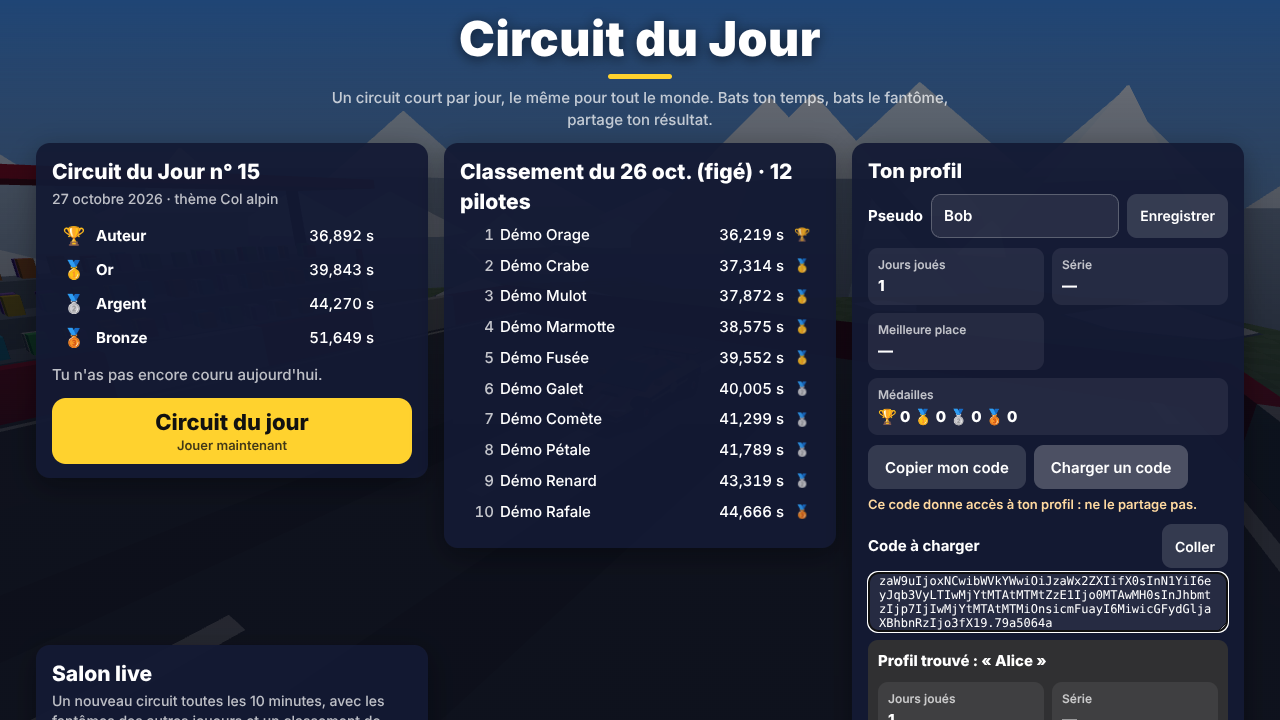
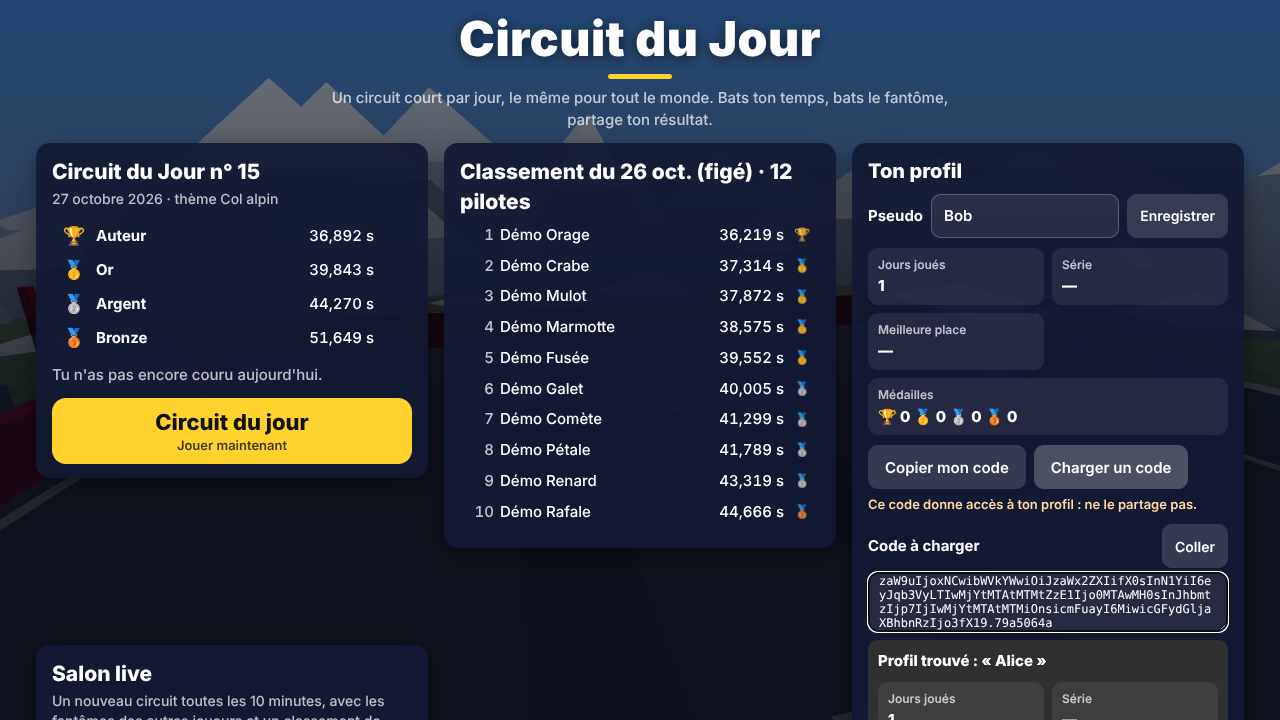
Lot 29 : scène de l'accueil plafonnée en qualité, captures, mesure, pièges et README
Claude-Session: https://claude.ai/code/session_014jqx9riDwsr6qTro3z7kgB

diff --git a/apps/web/src/main.ts b/apps/web/src/main.ts
@@ -451,7 +451,7 @@ function applySettings(patch: Partial<GameSettings> = {}) {
   governor.locked = plan.fixed;
   if (plan.fixed || wasQuality !== settings.quality) governor.level = plan.level; // retour à l'automatique : on repart de haut, la fluidité redescendra si besoin
   effects.quality = governor.level;
-  view.setQuality(governor.level, settings.shadows);
+  syncSceneQuality();
   effects.particlesOn = settings.particles;
   effects.skidMarksOn = settings.skids;
   shakeScale = params.get("shake") === "0" || !settings.shake ? 0 : 1;
@@ -460,6 +460,12 @@ function applySettings(patch: Partial<GameSettings> = {}) {
   syncBoardFold();
   if ("ghost" in patch) applyGhostSetting();
   settingsPanel?.sync();
+}
+
+/** Qualité de la scène : celle du jeu, sauf derrière l'accueil, où elle ne dépasse pas « moyenne » (« basse » sur appareil tactile : la batterie d'abord). */
+function syncSceneQuality() {
+  const level = (homeOpen ? Math.min(governor.level, touchMode ? 0 : 1) : governor.level) as Quality;
+  view.setQuality(level, settings.shadows);
 }
 
 function setCameraByName(name: string) {
@@ -535,12 +541,14 @@ function leaveToHome() {
   showPauseConfirm(false);
   startAttempt(); // la voiture revient au départ, le décompte attendra le bouton « Circuit du jour »
   homeOpen = true;
+  syncSceneQuality();
   homeUi.open();
 }
 
 function playDaily() {
   const go = () => {
     homeOpen = false;
+    syncSceneQuality();
     homeUi.close();
     startAttempt();
     snapCamera = true;
@@ -1584,7 +1592,7 @@ function frame(now: number) {
   if (homeOpen) homeSpin += Math.min(frameMs, 100) / 1000;
   if (!frozen && !manual && governor.observe(frameMs)) {
     effects.quality = governor.level;
-    view.setQuality(governor.level, settings.shadows); // qualité basse : décor, ombres et halos allégés (téléphone lent)
+    syncSceneQuality(); // qualité basse : décor, ombres et halos allégés (téléphone lent)
     if (settingsPanel?.isOpen()) settingsPanel.sync();
   }
 
@@ -2036,8 +2044,10 @@ if (watchWanted && track) {
 document.body.classList.toggle("no-splits", !settings.splits);
 syncBoardFold();
 if (!watchWanted && !salon && (settings.ghost === "first" || settings.ghost === "ahead") && params.get("ghost") !== "off" && online.enabled && !(daily && !submitAllowed)) applyGhostSetting();
-if (homeOpen) homeUi.open();
-else if (needsHowto() && !watchWanted) howto.open(); // première visite sans passer par l'accueil (lien direct) : l'aide d'abord
+if (homeOpen) {
+  syncSceneQuality();
+  homeUi.open();
+} else if (needsHowto() && !watchWanted) howto.open(); // première visite sans passer par l'accueil (lien direct) : l'aide d'abord
 renderer.setAnimationLoop(frame);
 
 // Accès de débogage pour les tests de navigateur (`?debug`) : état de la course, sans effet sur le jeu.

diff --git a/apps/web/e2e/accueil.spec.ts b/apps/web/e2e/accueil.spec.ts
@@ -407,15 +407,15 @@ test.describe("pause et touches", () => {
       await page.evaluate((i) => ((window as unknown as { __pad: { buttons: { pressed: boolean }[] } }).__pad.buttons[i]!.pressed = false), index);
       await page.waitForTimeout(400);
     };
-    await press(9); // Start
+    await press(9); // Start : pause
     await page.waitForFunction(() => window.__cdj.paused === true);
-    await press(9);
+    await expect(page.locator("#pause")).toBeVisible();
+    await press(2); // X : depuis le départ (referme aussi la pause)
     await page.waitForFunction(() => window.__cdj.paused === false);
-    await page.waitForTimeout(1500);
-    const before = await page.evaluate(() => window.__cdj.car.tick);
-    expect(before).toBeGreaterThan(0);
-    await press(2); // X : depuis le départ
-    expect(await page.evaluate(() => window.__cdj.phase)).toBe("countdown");
+    await page.waitForFunction(() => window.__cdj.phase === "racing");
+    await page.waitForTimeout(1200);
+    await press(3); // Y : dernier point de contrôle (ici le départ : la reprise est comptée)
+    await page.waitForFunction(() => (window.__cdj.race as { respawns: number }).respawns >= 1);
     await ctx.close();
   });
 

diff --git a/apps/web/e2e/leaderboard.spec.ts b/apps/web/e2e/leaderboard.spec.ts
@@ -126,7 +126,7 @@ test("sans adresse d'API, aucun classement n'apparaît", async ({ browser }) => 
   await page.waitForFunction(() => window.__cdj?.phase === "countdown" || window.__cdj?.phase === "racing");
   await race(page, slowCode);
   await expect(page.locator("#finish .big")).toBeVisible();
-  await expect(page.locator("#finish .online")).toContainText("Course non classée"); // on le dit (lot 29), sans formulaire ni envoi
+  await expect(page.locator("#finish .online")).toContainText(/non classée/i); // on le dit (lot 29), sans formulaire ni envoi
   await expect(page.locator("#finish .online input")).toHaveCount(0);
   await expect(page.locator("#board")).toBeHidden();
   await context.close();

diff --git a/apps/web/e2e/surfaces.spec.ts b/apps/web/e2e/surfaces.spec.ts
@@ -98,7 +98,7 @@ test("un thème forcé n'est jamais envoyé au classement, même avec une adress
   await page.waitForFunction(() => window.__cdj.phase === "finished", undefined, { timeout: 15_000 });
   await page.waitForTimeout(800);
   expect(calls).toEqual([]);
-  await expect(page.locator("#finish .online")).toContainText("Course non classée");
+  await expect(page.locator("#finish .online")).toContainText(/non classée/i);
 });
 
 test("sans thème forcé, l'en-tête donne le thème du jour (et plus la palette)", async ({ page }) => {

diff --git a/docs/orchestration.md b/docs/orchestration.md
@@ -44,7 +44,7 @@ Jeu web de course quotidien : **un circuit court (30–45 s) par jour, le même 
 | 27b Le Salon oublie ; revoir le meilleur tour | **Une session finie est oubliée** (décision de Nathan) : à `fin + 60 s` ses courses, son classement et son circuit sont **effacés à la demande** (première requête qui voit la session terminée, pas de tâche de fond : Cloud Run peut être éteint), plus de table ni de route `podiums` ; le podium de fin se calcule sur le classement servi pendant la grâce ; même règle en démo. **Présence espacée** (une écriture par joueur et par 30 s, upsert conditionnel, présent = vu depuis 60 s) et **débit des lectures en mémoire** ; mesure : **2 044 → 318 lignes écrites par joueur et par heure** (`npm run measure:salon` les compte). **Mode spectateur** (`?watch=best`) : rejoue la rediffusion du premier avec le même code (aucun changement de `sim`), voiture pleine à la couleur du fantôme avec son pseudo, 3 caméras + caméra libre, pause / ¼ / ½ / 2× / retour de 5 s / barre de progression, « Courir contre ce fantôme » ; accès depuis l'arrivée, le classement, les archives, le Salon. `SIM_VERSION` et `GENERATOR_VERSION` inchangées | [#47](https://github.com/Nathan-Te/DailyTrack/pull/47) | `?mode=salon&api=demo&salonMinutes=2` (une bascule : tout repart de zéro) ; `?api=demo&day=2026-09-30&watch=best` ; `?mode=salon&api=demo&watch=best` |
 | 28 Mise en ligne | **Jeu sur GitHub Pages, API sur Cloud Run (`europe-west1`, 0 à 2 instances), base Turso** : `SqlDb` sur libSQL (`libsql.ts`, client HTTP embarqué ; fichier libSQL en local et dans les tests, **mêmes tests d'API sur SQLite et libSQL**), schéma versionné par empreinte (`meta`), `config.ts` (production : refus de démarrer avec `SALON_MINUTES`, sans `ALLOWED_ORIGINS`, `RATE_SALT` ou Turso sur Cloud Run), CORS par liste (`ALLOWED_ORIGINS`), adresse du client lue depuis la droite de `X-Forwarded-For`, `/api/health` (base, version, `SALON_MINUTES`), journaux JSON sans donnée personnelle, **circuits générés à la première requête** (un seul calcul : plus de tâche de fond en production), `deploy-api.yml` (ignoré sans secrets, fédération d'identité), job CI `api-image` (l'image contre un vrai `sqld`), **`PREMIER_JOUR` = 13/10/2026**, **code de transfert** (Réglages : copier / coller, somme de contrôle), `measure:budget`, guide `docs/mise-en-ligne.md` ; **`sim` inchangé** (versions 14 et 15, golden : seulement les numéros) | [#48](https://github.com/Nathan-Te/DailyTrack/pull/48) | l'aperçu ; **suivre `docs/mise-en-ligne.md`** (la mise en ligne réelle est faite par Nathan : comptes et carte bancaire) |
 | 28b Déploiement réel et corrections | **L'API est en ligne depuis le 13/10/2026** (faite par Nathan avec le guide, `/api/health` vérifié : `ok`, `db: ok`, CORS du site, admin en 401). Corrections tirées du vrai déploiement : `deploy-api.yml` **vérifie la forme des secrets Google avant de s'authentifier** (message clair au lieu de `Invalid value for "audience"`), guide : numéro (et non identifiant) du projet, variables de Cloud Shell perdues + bloc « Réparer les droits » ; CI : `npm test` lance les projets Vitest **l'un après l'autre**, limite du **pire jour de génération 2,5 → 3,5 s** (mesuré 2,5 à 2,7 s en CI sur le même code), budget de poids relevé (246 / 112 ko), e2e à dates d'après le 13/10 ; **`sim` et versions inchangés** | [#49](https://github.com/Nathan-Te/DailyTrack/pull/49) | `<API>/api/health`, puis le jeu : classement, code de transfert (P → Réglages), Salon à deux |
-| 29 Accueil, réglages et compréhension | **Interface seule (aucun changement de `sim` ni de l'API ; versions 14 / 15, golden inchangés)** : **écran d'accueil** au chargement (titre, carte du jour avec médailles nommées, classement du jour, deux grands boutons *Circuit du jour* / *Salon live*, **carte du profil** : pseudo, jours joués, médailles, meilleure place, série, copier / charger un code avec aperçu), classement **affiché par défaut** en course (compact, repliable, « toi », pseudos en double suffixés), barre du haut **Accueil · Réglages · Fantôme · Son**, menu de **pause** complet (Échap / P / Start), **Réglages à onglets** (graphismes dont qualité auto / basse / moyenne / haute, son à trois voix, jeu, commandes, profil), page **« Comment jouer »** (première visite), arrivée revue (Rejouer · Revoir · Partager · Accueil, messages clairs) ; liens de test directs sautent l'accueil, `?home=1` le force | PR du lot 29 (à reporter ici à l'ouverture) | l'accueil en démo, puis la course, la pause, les réglages ; sur téléphone `?api=demo&touch=1` |
+| 29 Accueil, réglages et compréhension | **Interface seule (aucun changement de `sim` ni de l'API ; versions 14 / 15, golden inchangés)** : **écran d'accueil** au chargement (titre, carte du jour avec médailles nommées, classement du jour, deux grands boutons *Circuit du jour* / *Salon live*, **carte du profil** : pseudo, jours joués, médailles, meilleure place, série, copier / charger un code avec aperçu), classement **affiché par défaut** en course (compact, repliable, « toi », pseudos en double suffixés), barre du haut **Accueil · Réglages · Fantôme · Son**, menu de **pause** complet (Échap / P / Start), **Réglages à onglets** (graphismes dont qualité auto / basse / moyenne / haute, son à trois voix, jeu, commandes, profil), page **« Comment jouer »** (première visite), arrivée revue (Rejouer · Revoir · Partager · Accueil, messages clairs) ; liens de test directs sautent l'accueil, `?home=1` le force | [#52](https://github.com/Nathan-Te/DailyTrack/pull/52) | l'accueil en démo, puis la course, la pause, les réglages ; sur téléphone `?api=demo&touch=1` |
 
 Un PR à part : #5 (aperçu GitHub Pages par branche). **Reste à faire du plan** : mise en ligne, calibrage et le *jalon* « une semaine de circuits joués par Nathan et quelques amis ». Le lot 10 ne dépend que du lot 7.
 
@@ -262,6 +262,8 @@ Outils de test (avec ?debug) : window.__cdj, timescale=N, today=AAAA-MM-JJ, salo
 - **Lot 28 — mise en ligne** : (1) **`rowsAffected` de libSQL vaut 0 pour une instruction avec `RETURNING`** : les compteurs d'écritures (`LibsqlStats`) la sous-estiment ; le script de budget lit `rows_written` de `sqld` (ce que Turso facture). (2) **`:memory:` ne convient pas aux tests libSQL** (le client peut rouvrir une connexion et perdre la base après une transaction) : fichier temporaire (`openTestDb`). (3) **Le client HTTP de libSQL tire `ws`, en CommonJS** : un paquet ESM esbuild a besoin d'un `require` (`createRequire`, `scripts/build-node.mjs`) ; et le client natif de `file:` est importé par un nom **non littéral** pour qu'esbuild ne l'embarque pas. (4) **Une promesse de schéma qui échoue ne doit pas rester en mémoire** : sans `catch` qui la remet à `null`, une coupure de Turso au réveil cassait l'instance jusqu'à son extinction. (5) **Deux requêtes qui arrivent avant la fin de la génération** la lançaient deux fois (le Salon le faisait déjà bien, le circuit du jour non). (6) **`X-Forwarded-For` : le début est écrit par le client** ; lire l'adresse depuis la droite. (7) **`PREMIER_JOUR` change l'affichage** : avant le premier jour le numéro est ≤ 0 et l'en-tête ne le montre pas ; les tests ancrés sur des dates d'avant (`daily.spec.ts`, démo, archives, planning de l'admin qui ne remonte pas avant le premier jour) l'ont vu. (8) **Docker Hub limite les téléchargements anonymes** (erreur 429 sur `node:22-slim`) : `mirror.gcr.io/library/node:22-slim` en secours, étiqueté `node:22-slim` ; en conteneur de session il faut un proxy et un certificat pour `npm ci` (`--network=host`, `NODE_EXTRA_CA_CERTS`), sans rien changer au Dockerfile du dépôt. (9) **Cloud Run facture le temps de la requête, entrées-sorties comprises** (arrondi à 100 ms) : une requête de 1 ms de calcul qui attend Turso 50 ms est facturée 100 ms ; c'est le nombre de requêtes qui coûte, d'où le choix de mesurer les requêtes du Salon (une toutes les 5 s par joueur).
 
 - **Lot 28b — le vrai déploiement a montré ce que la CI ne voit pas** : (1) **`GCP_WORKLOAD_IDENTITY_PROVIDER` doit être le nom complet** `projects/<NUMÉRO du projet>/locations/global/workloadIdentityPools/<pool>/providers/<fournisseur>` (le **numéro** de 12 chiffres, pas l'identifiant `dailytrack-511513`) ; sinon Google répond `Invalid value for "audience"` ; le workflow le vérifie maintenant. (2) **Cloud Shell oublie ses variables** quand il se met en veille : des commandes de droits lancées avec `$DEPLOY_SA` ou `$POOL` vides échouent sans bruit, d'où `iam.serviceAccounts.getAccessToken denied` après une authentification réussie ; le guide donne un bloc de réparation **sans guillemets** (un guillemet collé derrière l'identifiant de projet a suffi à casser une commande). (3) **Un agent de session ne peut pas lancer un workflow** (403 « Resource not accessible by integration » pour `workflow_dispatch` et pour le relancement) : c'est Nathan qui clique sur *Re-run jobs*. (4) **Un test de durée mesuré en CI doit avoir de la marge** : le pire jour de génération (60 dates) valait 2 527, 2 504 et 2 708 ms pour une limite de 2 500 ms sur trois passages du même code ; limite relevée à 3,5 s (la moyenne reste le garde-fou). (5) **Deux projets Vitest en parallèle doublent la charge** : `npm test` les lance l'un après l'autre. (6) **Les budgets de poids se vérifient sur `main`** : le spectateur du 27b avait déjà fait passer le budget de 240 ko (239,3 ko mesurés avant le lot 28) ; relevé à 246 / 112 ko (le lot 28 ajoute 3,1 ko). (7) **Un test e2e qui utilise l'horloge réelle avec le vrai serveur** ne peut pas viser un jour futur (404 `unknown_day`) ni d'avant le premier jour : `share.spec.ts` « jour passé » utilise le 13/10/2026 (premier jour) avec « aujourd'hui » au 14.
+
+- **Lot 29 — l'interface** : (1) **une feuille de style importée par le JavaScript passe après le `<style>` de la page** : une règle de base de `ui.css` l'emportait sur la règle « petit écran » restée dans `index.html` (classement et menu mal placés, vu seulement par les tests de chevauchement) ; les règles responsives d'un élément vivent dans le même fichier que sa règle de base. (2) **Une fenêtre qui recouvre l'écran intercepte les clics des tests** : la pause est maintenant un plein écran, `getByRole("button", { name: "Reprendre" }).first()` visait le ▶ de la barre tactile dessous ; cibler par identifiant (`#pause-resume`). (3) **Les tests qui lisent un texte de l'interface sont à chercher avant de le changer** (`grep` dans `e2e/`) : 36 échecs au premier passage, tous des sélecteurs ou des libellés. (4) **`watch.spec.ts:52` (ralenti) est instable sur `main` aussi** (échoue une fois sur deux en local, vérifié sur une copie de `main`), `thumbnails.spec.ts:77` et deux tests de `accueil.spec.ts` échouent sous charge et passent seuls : rendu logiciel lent, un appui de manette plus court qu'une image est perdu (appuyer 700 ms), un test de pause qui lit le chrono avant que la touche P ait agi doit attendre `paused === true`. (5) **`syncSceneQuality` ne s'appelle pas avant que `cameraIndex` existe** : un `sync()` des réglages lancé pendant l'initialisation lit des variables pas encore déclarées. (6) **Le jour « aujourd'hui » de `?api=demo` est figé au 27/10/2026** (`DEMO_TODAY`) : les tests d'accueil en démonstration qui comptent une série ou une place doivent écrire leurs records à cette date, pas à la date réelle. (7) **Tests longs** : le run e2e complet dure ≈ 37 min en local ; lancer les specs concernées (`npx playwright test <spec>`) et laisser la CI faire le reste.
 
 ## 9. Suite proposée (à confirmer avec Nathan)
 

diff --git a/docs/lots/lot-29-accueil-ux.md b/docs/lots/lot-29-accueil-ux.md
@@ -52,7 +52,14 @@ Ce n'est pas un défaut du chrono : il **part au « PARTEZ ! »**, voiture immob
 
 ## Coût de la scène derrière l'accueil
 
-MESURE_ACCUEIL
+La scène du jour tourne derrière l'accueil, caméra en survol lent, **plafonnée à 30 images/s (20 sur appareil tactile) et à la qualité « moyenne » (« basse » sur appareil tactile)** : pas de décor dense ni d'ombres de 1024 derrière un écran de menus. Mesuré avec `__cdj.render.home` (temps passé dans `renderer.render` par image, en rendu **logiciel** SwiftShader, 10 s après 9 s de réchauffement) :
+
+| | accueil (avant plafonnement de la qualité) | accueil (après) | course (qualité automatique, descendue à « basse » par le rendu logiciel) |
+|---|---|---|---|
+| ordinateur 1280×720 | 13 ms / image | 27 ms / image (bruité : 3 images/s en logiciel) | 1,1 ms / image |
+| téléphone paysage 844×390 | 5,2 ms / image | 1,3 ms / image | 1,0 ms / image |
+
+Ces chiffres **ne disent pas le coût sur un vrai GPU** (le rendu logiciel n'en est pas représentatif, voir `docs/orchestration.md` § 8, lot 9) : ils montrent que sur téléphone le décor de l'accueil coûte autant qu'une course en qualité basse. À vérifier sur un vrai téléphone (batterie, chauffe) ; si cela gêne, le plus simple est de figer la scène (une seule image) après quelques secondes, ou de la remplacer par la miniature du jour (lot 13).
 
 ## Non vérifié
 
